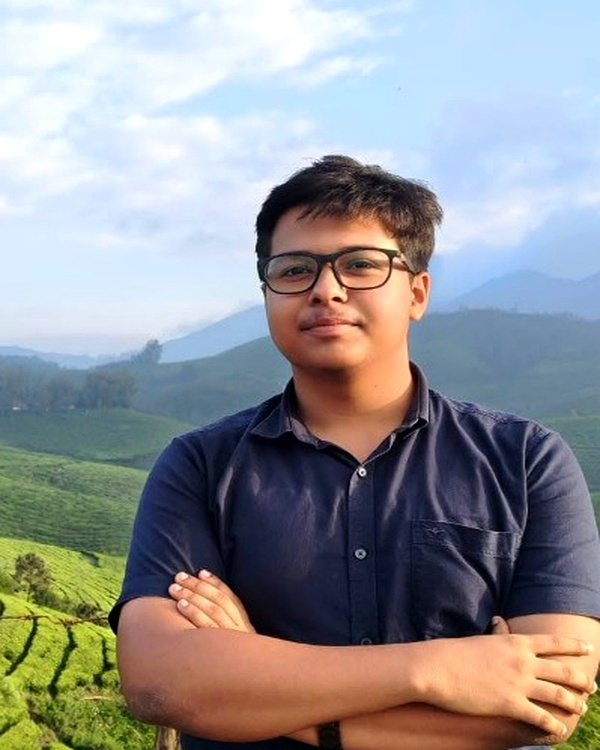
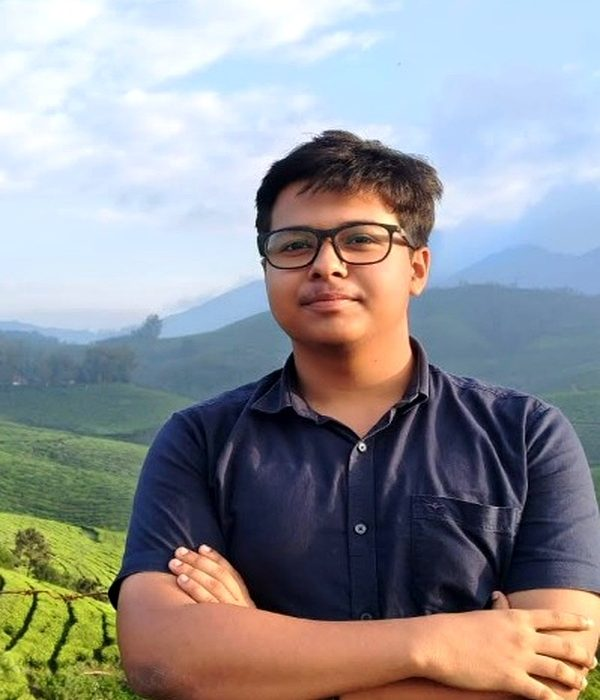
fix(execom): crop Sebin photo, drop object-position bars; kill cube shadows; pause cube autoplay off-screen

diff --git a/src/Components/Execom/Execom.jsx b/src/Components/Execom/Execom.jsx
@@ -31,7 +31,7 @@ const cardData = [
   { name: 'Amanul Farhan K S', img: Amanul, review: 'Treasurer' },
   { name: 'Abel S Mathew', img: Abel, review: 'Research & Development Lead' },
   { name: 'Saniya K Shibu', img: Saniya, review: 'Program Outreach Coordinator' },
-  { name: 'Sebin Mathew', img: Sebin, review: 'Project Coordinator', imgPos: 'object-[calc(20%_-_25px)_calc(45%_-_10px)]' },
+  { name: 'Sebin Mathew', img: Sebin, review: 'Project Coordinator' },
   { name: 'Anjitha Aravind', img: Anjitha, review: 'Operations Lead' },
   { name: 'Abhirami P', img: Abhirami, review: 'Design Lead' },
   { name: 'Devadarsana R', img: Devadarsana, review: 'Public Relations Lead' }
@@ -46,7 +46,32 @@ function Execom() {
   const lowPower = useLowPower();
   const [activeCube, setActiveCube] = React.useState(0);
   const cubeRef = React.useRef(null);
+  const cubeWrapRef = React.useRef(null);
+  const cubeVisibleRef = React.useRef(true);
   const lastWrap = React.useRef(0);
+
+  // Shadow planes + face gradients are the cube's #1 GPU cost — and on a
+  // near-black site they read as a black smear, not a shadow. Keep them off.
+  const cubeEffectConfig = { shadow: false, slideShadows: false };
+
+  // Only run the cube's rotation while it's actually on screen.
+  // At 20x CPU throttle (or on low-end phones), a cube spinning
+  // in the background is pure wasted frames.
+  React.useEffect(() => {
+    const el = cubeWrapRef.current;
+    if (!el || typeof IntersectionObserver === 'undefined') return;
+    const io = new IntersectionObserver(([entry]) => {
+      cubeVisibleRef.current = entry.isIntersecting;
+      if (!cubeRef.current) return;
+      if (entry.isIntersecting) {
+        if (!lowPower) cubeRef.current.autoplay.start();
+      } else {
+        cubeRef.current.autoplay.stop();
+      }
+    }, { threshold: 0.1 });
+    io.observe(el);
+    return () => io.disconnect();
+  }, [lowPower]);
 
   return (
     <section className='min-h-full flex flex-col pt-10 pb-20 overflow-hidden' id='execom'>
@@ -97,17 +122,13 @@ function Execom() {
         </div>
 
         {/* Mobile 3D Cube Swiper — seamless infinite wrap (swipe any direction, forever) */}
-        <div className="block sm:hidden max-w-[320px] mx-auto py-4">
+        <div ref={cubeWrapRef} className="block sm:hidden max-w-[320px] mx-auto py-4">
           <Swiper
             onSwiper={(swiper) => { cubeRef.current = swiper; }}
             effect={'cube'}
             grabCursor={true}
-            cubeEffect={{
-              shadow: !lowPower,
-              slideShadows: !lowPower,
-              shadowOffset: 20,
-              shadowScale: 0.94,
-            }}
+            speed={400}
+            cubeEffect={cubeEffectConfig}
             loop={false}
             initialSlide={cardData.length}
             autoplay={lowPower ? false : { delay: 3000, disableOnInteraction: false, stopOnLastSlide: true }}
@@ -121,7 +142,7 @@ function Execom() {
               if (swiper.activeIndex >= cardData.length * 3 - 1) {
                 lastWrap.current = now;
                 swiper.slideTo(0, 0);
-                if (!lowPower) swiper.autoplay.start();
+                if (!lowPower && cubeVisibleRef.current) swiper.autoplay.start();
               } else if (swiper.activeIndex <= 0) {
                 lastWrap.current = now;
                 swiper.slideTo(cardData.length * 3 - 1, 0);
@@ -131,7 +152,7 @@ function Execom() {
           >
             {cubeSlides.map((d, index) => (
               <SwiperSlide key={index}>
-                <div className='container-execom bg-[#161618] border-box relative rounded-3xl overflow-hidden shadow-2xl'>
+                <div className='container-execom bg-[#161618] border-box relative rounded-3xl overflow-hidden'>
                   <img
                     className={`object-cover ${d.imgPos || 'object-top'} w-full h-full`}
                     src={d.img}
